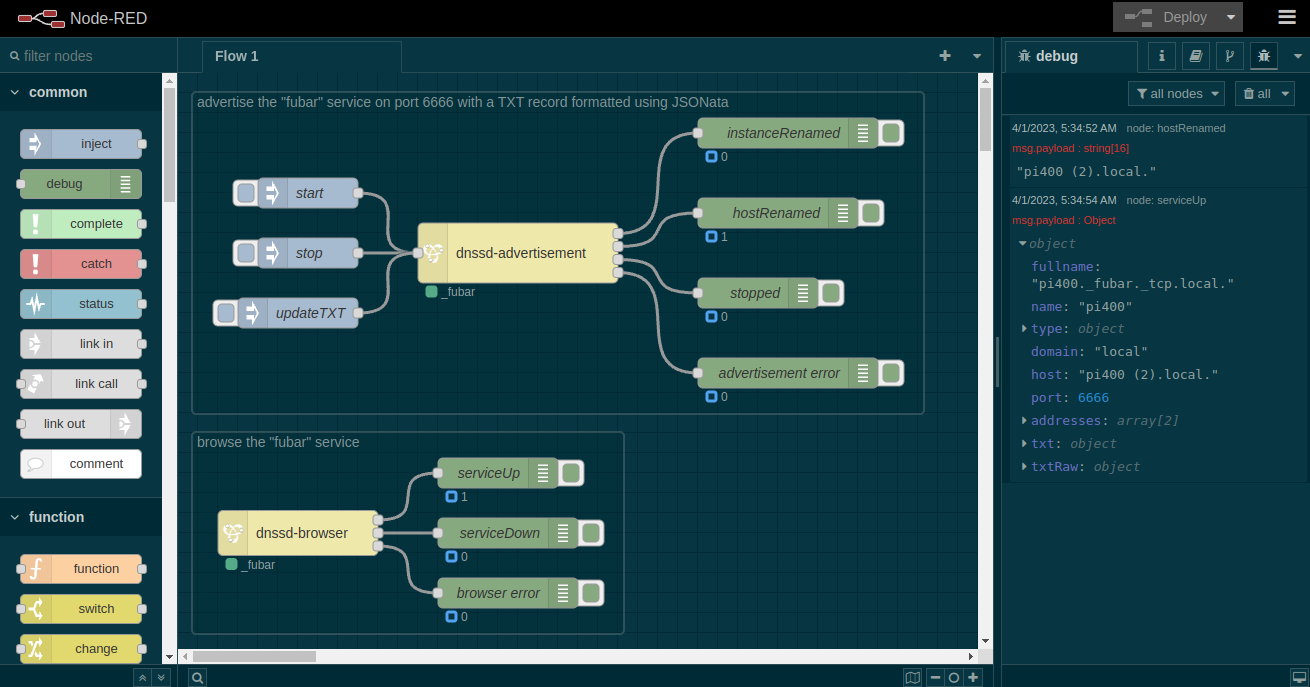
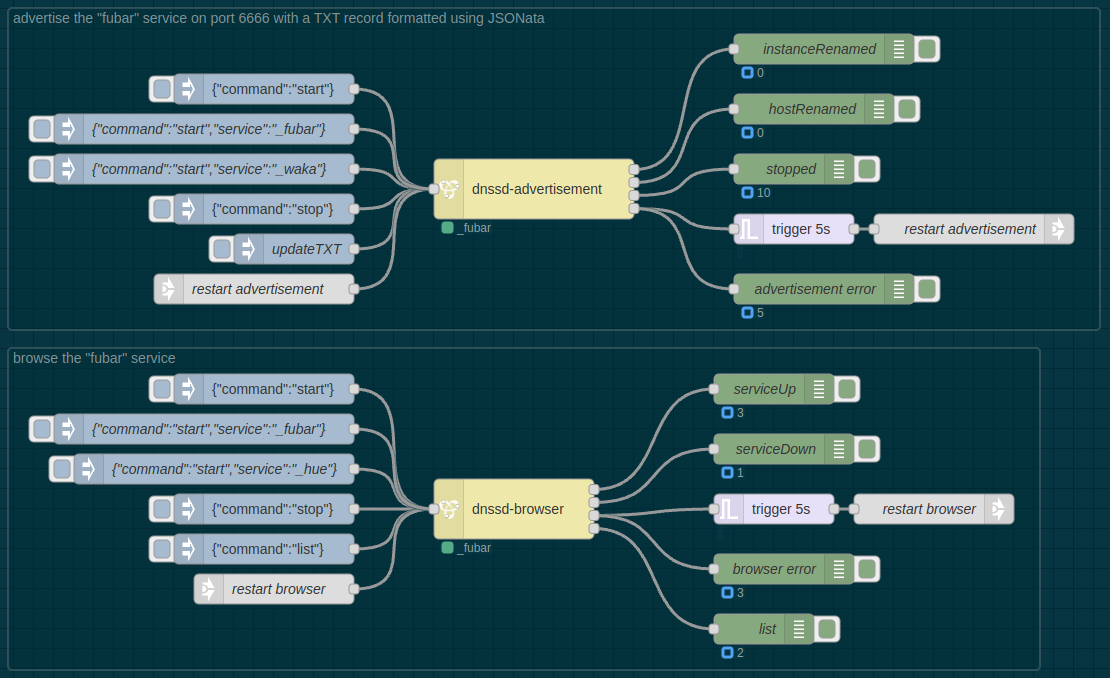
Support start message parameters
Support optional parameters to "start" command messages
to override a given node's configured values.

diff --git a/dnssd.js b/dnssd.js
@@ -17,6 +17,14 @@ module.exports = function (RED) {
 
                     case 'start':
 
+                        let udp = msg.payload.udp || node.udp
+                        let service = msg.payload.service || node.service
+                        let port = msg.payload.port || node.port
+                        let options = msg.payload.options || node.options
+                        node.udp = udp
+                        node.service = service
+                        node.port = port
+                        node.options = options
                         restartAdvertisement()
                         break
 
@@ -51,7 +59,7 @@ module.exports = function (RED) {
                 .on('stopped', advertisementStopped)
                 .on('instanceRenamed', instanceRenamed)
                 .on('hostRenamed', hostRenamed)
-            advertisement.start()
+                .start()
             node.status({ text: node.service, shape: 'dot', fill: 'green' })
 
         }
@@ -60,9 +68,17 @@ module.exports = function (RED) {
 
             if (advertisement) {
 
-                advertisement.stop(false)
-                advertisement = null
+                let a = advertisement
 
+                advertisement.stop(false, () => {
+
+                    if (a === advertisement) {
+
+                        advertisement = null
+                        node.status({ text: node.service, shape: 'dot', fill: 'yellow' })
+
+                    }
+                })
             }
         }
 
@@ -95,15 +111,12 @@ module.exports = function (RED) {
 
         function advertisementStopped() {
 
-            advertisement = null
-            node.status({ text: node.service, shape: 'dot', fill: 'yellow' })
             node.send([
                 null,
                 null,
                 {
                     payload: {
-                        timestamp: new Date().getTime(),
-                        started: (advertisement != null)
+                        timestamp: new Date().getTime()
                     }
                 },
                 null
@@ -140,11 +153,17 @@ module.exports = function (RED) {
                     node.service = config.service
                     node.port = Number.parseInt(config.port)
                     node.udp = config.udp
-                    node.on('close', function (_, done) {
+                    node.on('close', (_, done) => {
 
-                       stopAdvertisement()
-                       done()
+                        if (advertisement) {
 
+                            advertisement.stop(false, done)
+
+                        } else {
+
+                            done()
+
+                        }
                     })
 
                     node.on('input', onAdvertisementInput)
@@ -235,6 +254,8 @@ module.exports = function (RED) {
                 switch (msg.payload.command) {
 
                     case 'start':
+                        node.service = msg.payload.service || node.service
+                        node.udp = msg.payload.udp || node.udp
                         restartBrowser()
                         break
 

diff --git a/README.md b/README.md
@@ -12,45 +12,6 @@ without generating any warnings in the Node-RED log.
 
 ---
 
-## dnssd-browser
-
-### Input
-
-`msg.payload.command` specifies a `dnssd.Browser` mehtod to invoke:
-
-#### `start`
-
-Begin listening for service life-cycle events.
-
-```json
-{ "payload": {  "command": "start" } }
-```
-
-#### `stop`
-
-Stop listening for service life-cycle events.
-
-```json
-{ "payload": {  "command": "stop" } }
-```
-
-#### `list`
-
-Send a list of running services.
-
-```json
-{ "payload": {  "command": "list" } }
-```
-
-### Outputs
-
-1. Stream of `Browser.serviceUp()` events
-2. Stream of `Browser.serviceDown()` events
-3. Stream of `Browser.error()` events
-4. `Browser.list()` results
-
----
-
 ## dnssd-advertisement
 
 ### Input
@@ -59,11 +20,21 @@ Send a list of running services.
 
 #### `start`
 
-Broadcast a "service up" event.
+Start responding to service enquiries from [browsers](#dnssd-browser).
 
 ```json
-{ "payload": { "command": "start" } }
+{ "payload": {
+        "command": "start"
+        [, "service": name]
+        [, "udp": boolean]
+        [, "port": number]
+        [, "options": json]
+    }
+}
 ```
+
+If the optional `service` name, `udp`, `port` number or `options` values are
+provided, they will override the node's configuration.
 
 #### `stop`
 
@@ -99,6 +70,53 @@ limited utility since it does not trigger any of the events exposed by the
 
 ---
 
+## dnssd-browser
+
+### Input
+
+`msg.payload.command` specifies a `dnssd.Browser` method to invoke:
+
+#### `start`
+
+Begin listening for service life-cycle events.
+
+```json
+{
+    "payload": {
+            "command": "start"
+            [, "service": name]
+            [, "udp": boolean]
+    }
+}
+```
+
+If the optional `service` name or `udp` values are provided, they will override the node's configured values.
+
+#### `stop`
+
+Stop listening for service life-cycle events.
+
+```json
+{ "payload": {  "command": "stop" } }
+```
+
+#### `list`
+
+Send a list of running services.
+
+```json
+{ "payload": {  "command": "list" } }
+```
+
+### Outputs
+
+1. Stream of `Browser.serviceUp()` events
+2. Stream of `Browser.serviceDown()` events
+3. Stream of `Browser.error()` events
+4. `Browser.list()` results
+
+---
+
 ## Details
 
 This is a deliberately thin wrapper around the functionality exposed by
@@ -115,10 +133,6 @@ tells them to use UDP instead.
 _Options_, including a `txt` record. _Options_ may be specified using JSON or
 JSONata.
 
-While `dnssd-browser` nodes start listening automatically when flows start,
-`dnssd-advertiser` nodes must be started explicitly by sending a `msg` with
-`command` set to `start` to their inputs:
-
-```json
-{ "payload" : { "command": "start" } }
-```
+These nodes do not start automatically even if they are fully configured. Use
+`inject` nodes configured to send messages when flows are (re-) started if
+required for your purposes.
